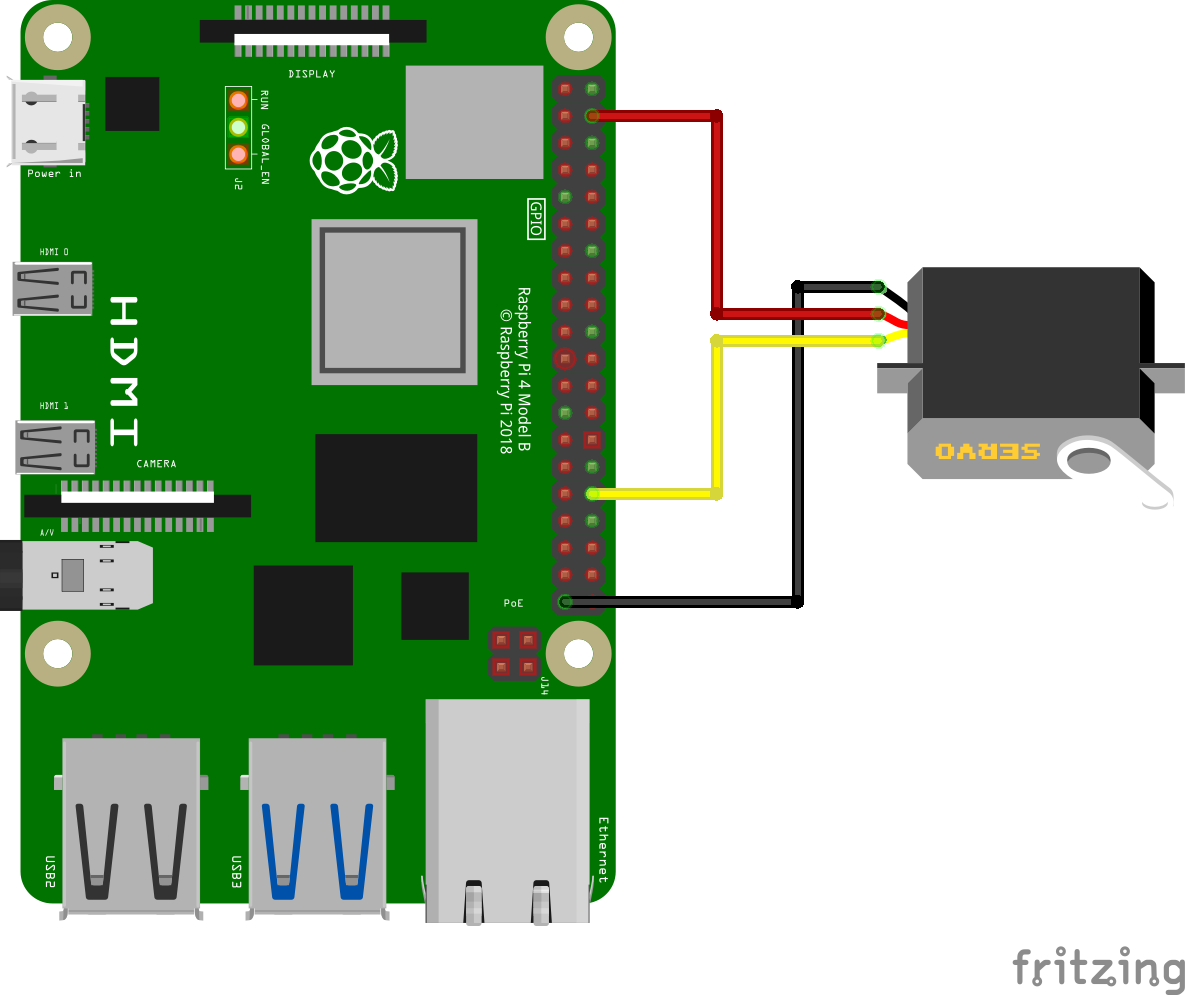
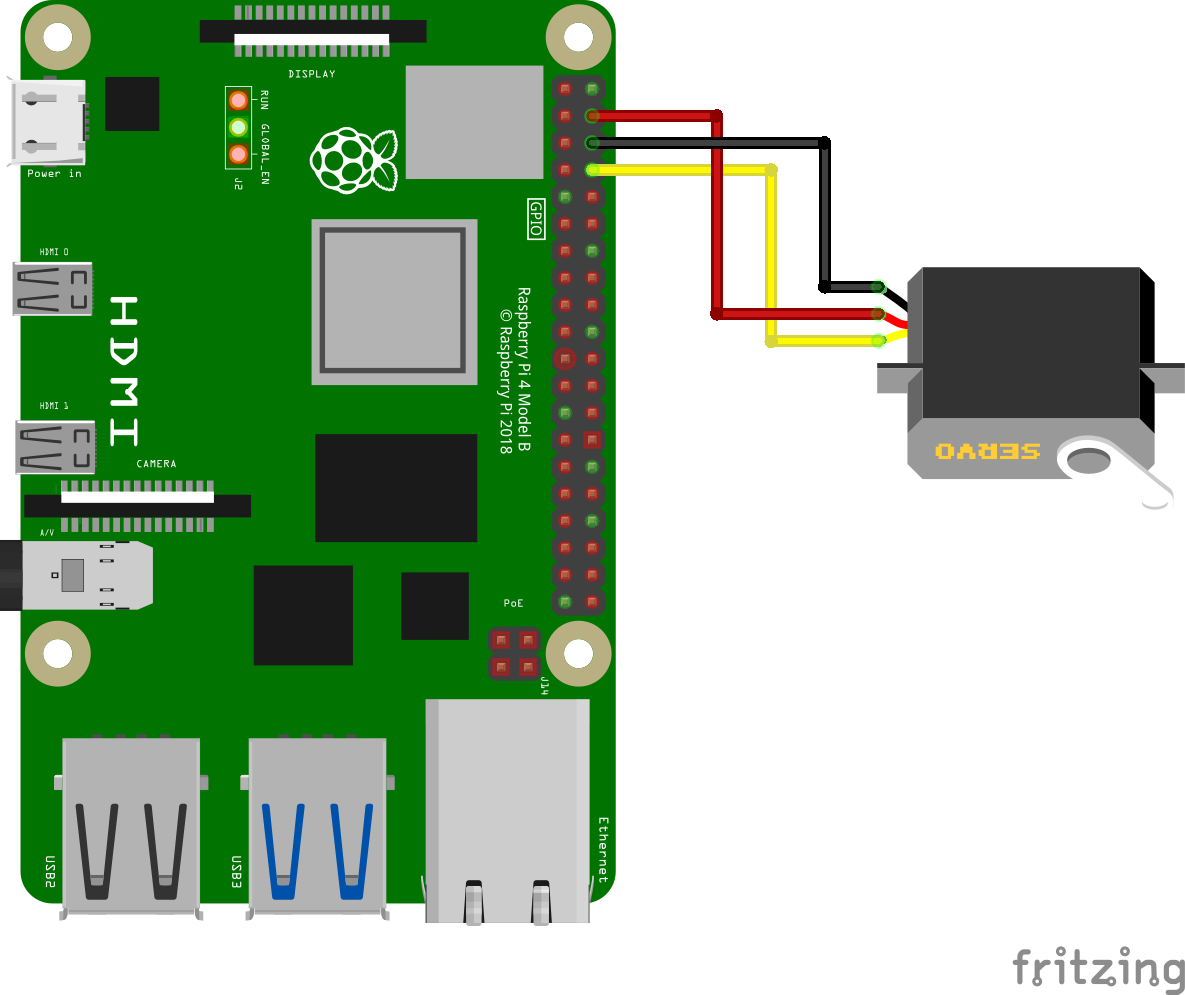
updated servo wiring and provided additional details about the fingerprint sensor

Changed region(s): [[0.4684, 0.1246, 0.7181, 0.6231]]

diff --git a/site/viamguides/src/fingerprint/fingerprint.md b/site/viamguides/src/fingerprint/fingerprint.md
@@ -84,8 +84,8 @@ Duration: 5
    | **Servo**           | **Raspberry Pi** |
    | ------------------- | ---------------- |
    | Power wire (red)    | Pin 4 (VCC 5V)   |
-   | Ground wire (black) | Pin 39 (GND)     |
-   | Data wire (yellow)  | Pin 32 (GPIO 12) |
+   | Ground wire (black) | Pin 6 (GND)      |
+   | Data wire (yellow)  | Pin 8 (GPIO 14)  |
 
    > aside negative
    > The website [pinout.xyz](https://pinout.xyz/) is a helpful resource with the exact layout and role of each pin for Raspberry Pi. When working with Viam, make sure to reference the physical pin numbers, and not the GPIO numbers listed on `pinout.xyz`.
@@ -241,7 +241,7 @@ The [`fingerprint` module](https://github.com/loopDelicious/viam-fingerprint-R50
 
 ### Enroll your fingerprint
 
-1. **Start the enrollment**: Go to the **CONTROL** tab within the Viam app and find the `fingerprint-sensor` component to again expand the **DO COMMAND** section. Input the following JSON object, and click the **Execute** button to begins enrollment for slot `1`. The sensor will now wait for fingerprint scans.
+1. **Start the enrollment**: Go to the **CONTROL** tab within the Viam app and find the `fingerprint-sensor` component to again expand the **DO COMMAND** section. Input the following JSON object, and click the **Execute** button to begins enrollment for slot `1`. For each **DO COMMAND** executed, this particular module returns a message indicating whether the command was successful. Upon a successful execution, the sensor will now wait for fingerprint scans.
    ```json
    { "start_enrollment": 1 }
    ```
@@ -250,7 +250,7 @@ The [`fingerprint` module](https://github.com/loopDelicious/viam-fingerprint-R50
    ```json
    { "capture": true }
    ```
-1. **Create fingerprint model**: Run the following command to create a model from the two captured scans. If the prints don't match, it will prompt to retry the second scan (capture again).
+1. **Create fingerprint model**: Run the following command to create a model from the two captured scans. If the prints don't match, the response message will prompt you to retry the second scan (capture again).
    ```json
    { "create_model": true }
    ```
@@ -258,7 +258,7 @@ The [`fingerprint` module](https://github.com/loopDelicious/viam-fingerprint-R50
    ```json
    { "store_model": 1 }
    ```
-1. **Repeat**: Repeat these steps with any other fingerprints you'd like to enroll, using a different numbered slot for each model. You can even enroll the same finger multiple times to improve the reliability of resulting in a positive match.
+1. **Repeat**: Repeat these steps with any other fingerprints you'd like to enroll, using a different numbered slot for each model. You can even enroll the same finger multiple times to improve the reliability of resulting in a positive match. The Adafruit R503 fingerprint sensor supports up to 200 fingerprint slots for storing templates, with slots indexed from `0` to `199`.
 
    > aside negative
    > **Troubleshooting**: If your sensor isn't responding to your finger placement:
